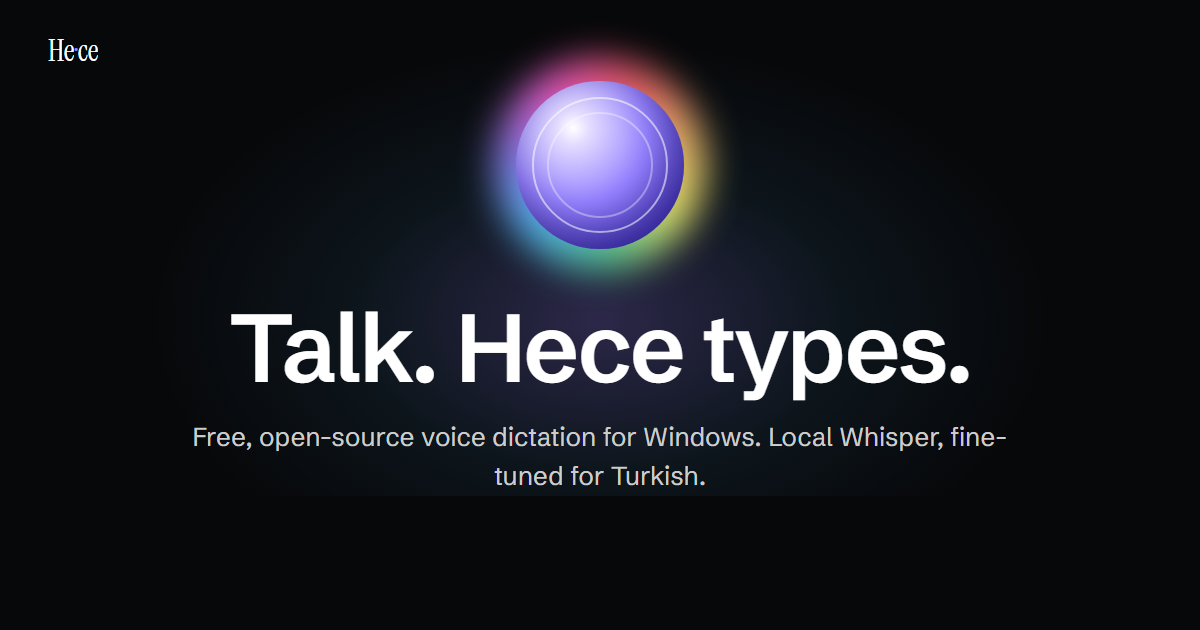
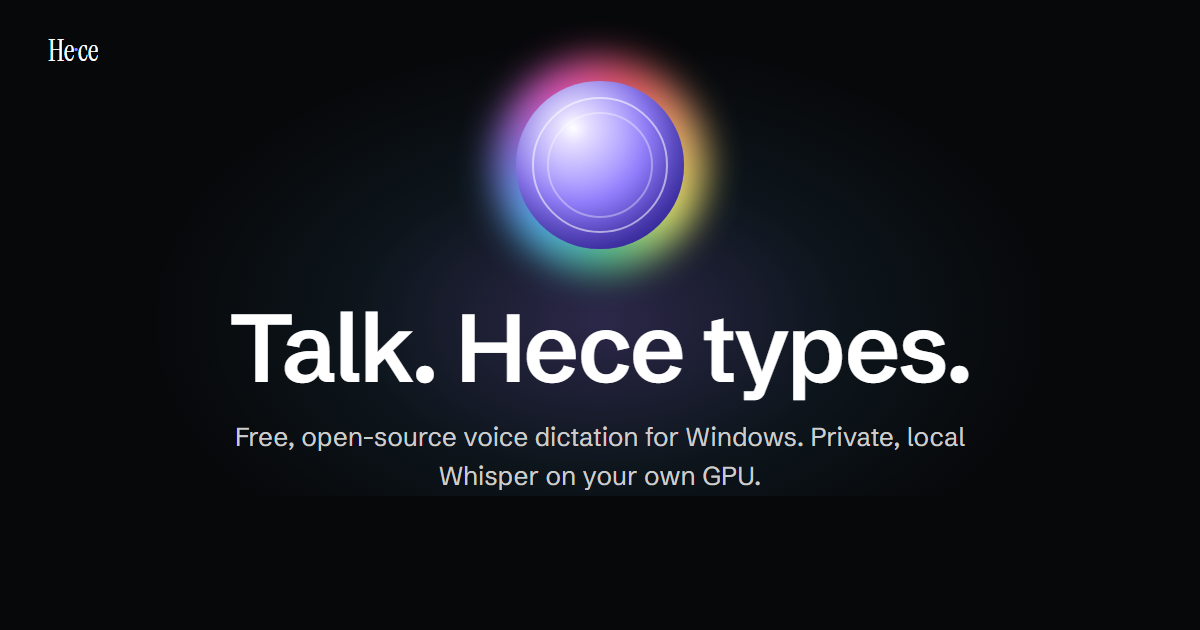
feat: global positioning for the website
Drop the Turkish page and Turkish-first copy. The site now leads with
multilingual local Whisper; fine-tuned single-language models are an
option, and the filter and guard coverage (English and Turkish today) is
stated openly. Positioning doc bumped to v2.

Refs #57

Changed region(s): [[0.1542, 0.6635, 0.8325, 0.7841]]

diff --git a/site/index.html b/site/index.html
@@ -4,23 +4,19 @@
 <meta charset="utf-8">
 <meta name="viewport" content="width=device-width, initial-scale=1">
 <title>Hece: free voice dictation for Windows, local and open source</title>
-<meta name="description" content="Hold a hotkey, speak, and Hece types your words into any app on Windows. Local Whisper fine-tuned for Turkish, no phantom text, your meaning kept. Free and open source.">
+<meta name="description" content="Hold a hotkey, speak, and Hece types your words into any app on Windows. Local Whisper on your GPU, many languages, no phantom text, your meaning kept. Free and open source.">
 <link rel="canonical" href="https://altintasutku.github.io/hece/">
-<link rel="alternate" hreflang="en" href="https://altintasutku.github.io/hece/">
-<link rel="alternate" hreflang="tr" href="https://altintasutku.github.io/hece/tr/">
-<link rel="alternate" hreflang="x-default" href="https://altintasutku.github.io/hece/">
 <meta name="theme-color" content="#07080a">
 <meta name="color-scheme" content="dark">
 <meta property="og:type" content="website">
 <meta property="og:site_name" content="Hece">
 <meta property="og:title" content="Hece: talk, and it types">
-<meta property="og:description" content="Free, open-source voice dictation for Windows. Local Whisper, fine-tuned for Turkish.">
+<meta property="og:description" content="Free, open-source voice dictation for Windows. Private, local Whisper on your own GPU.">
 <meta property="og:url" content="https://altintasutku.github.io/hece/">
 <meta property="og:image" content="https://altintasutku.github.io/hece/og.png">
 <meta property="og:image:width" content="1200">
 <meta property="og:image:height" content="630">
 <meta property="og:locale" content="en_US">
-<meta property="og:locale:alternate" content="tr_TR">
 <meta name="twitter:card" content="summary_large_image">
 <link rel="icon" href="favicon.svg" type="image/svg+xml">
 <link rel="apple-touch-icon" href="apple-touch-icon.png">
@@ -34,7 +30,7 @@
     {
       "@type": "SoftwareApplication",
       "name": "Hece",
-      "description": "Background voice dictation for Windows. Hold a hotkey, speak, and the text is pasted into the focused window. Local Whisper (fine-tuned for Turkish) or a cloud provider.",
+      "description": "Background voice dictation for Windows. Hold a hotkey, speak, and the text is pasted into the focused window. Local multilingual Whisper on the GPU or a cloud provider.",
       "applicationCategory": "UtilitiesApplication",
       "operatingSystem": "Windows",
       "url": "https://altintasutku.github.io/hece/",
@@ -42,7 +38,7 @@
       "license": "https://opensource.org/licenses/MIT",
       "isAccessibleForFree": true,
       "offers": { "@type": "Offer", "price": "0", "priceCurrency": "USD" },
-      "inLanguage": ["en", "tr"],
+      "inLanguage": "en",
       "author": { "@id": "https://altintasutku.github.io/hece/#author" }
     },
     {
@@ -70,7 +66,7 @@
       <a class="hide-sm" href="#how">How it works</a>
       <a class="hide-sm" href="#privacy">Privacy</a>
       <a class="hide-sm" href="#faq">FAQ</a>
-      <a href="tr/" hreflang="tr" lang="tr">Türkçe</a>
+      <a class="hide-sm" href="https://github.com/altintasutku/hece">GitHub</a>
       <a class="btn btn-primary btn-sm" href="https://github.com/altintasutku/hece/releases/latest">Download</a>
     </nav>
   </div>
@@ -91,7 +87,7 @@
 
       <div class="pillars">
         <div class="pillar"><h2><span class="dot" style="background:var(--green)"></span>Private by default</h2><p>Local Whisper runs on your machine. In local mode, audio never leaves your PC.</p></div>
-        <div class="pillar"><h2><span class="dot" style="background:var(--blue)"></span>Fluent in Turkish</h2><p>A Whisper model fine-tuned for Turkish, plus a vocabulary that spells your names and terms.</p></div>
+        <div class="pillar"><h2><span class="dot" style="background:var(--blue)"></span>Speaks your language</h2><p>Multilingual Whisper, plus a vocabulary that spells your names and terms the way you do.</p></div>
         <div class="pillar"><h2><span class="dot" style="background:var(--yellow)"></span>Keeps your meaning</h2><p>No phantom text from silence, and a cleanup step that is not allowed to drop a "not".</p></div>
       </div>
     </div>
@@ -113,8 +109,8 @@
           <div class="window">
             <div class="bar"><span># release-planning</span></div>
             <div class="msgs">
-              <div class="msg"><b>Deniz</b>Is the Kubernetes rollout still on for Thursday?</div>
-              <div class="msg"><b>Ece</b>Waiting on the staging numbers.</div>
+              <div class="msg"><b>Maya</b>Is the Kubernetes rollout still on for Thursday?</div>
+              <div class="msg"><b>Sam</b>Waiting on the staging numbers.</div>
             </div>
             <div class="compose"><mark>Yes, but not before the staging check passes. I'll post the numbers by noon.</mark><span class="caret"></span></div>
           </div>
@@ -142,7 +138,7 @@
           <div class="got"><small>Hece wrote</small>I can't make it on Friday.<br><span class="tag g">"can't" kept</span></div>
         </div>
       </div>
-      <p class="note">Illustrative examples. Optional LLM cleanup only removes fillers and fixes punctuation; if its output drops a negation or changes length sharply, Hece pastes the raw text instead. Low-confidence results are flagged.</p>
+      <p class="note">Illustrative examples. Optional LLM cleanup only removes fillers and fixes punctuation; if its output drops a negation or changes length sharply, Hece pastes the raw text instead. Low-confidence results are flagged. The phantom-text filter and the negation guard cover English and Turkish today; more languages are on the way.</p>
     </div>
   </section>
 
@@ -153,7 +149,7 @@
       <div class="modes">
         <div class="mode">
           <h3>Local</h3>
-          <p>Whisper large-v3, fine-tuned for Turkish, running on your NVIDIA GPU through CTranslate2.</p>
+          <p>Whisper large-v3 turbo running on your NVIDIA GPU through CTranslate2. Fine-tuned models for single languages are one click away.</p>
           <ul>
             <li>Audio never leaves your PC</li>
             <li>The model loads when you need it and is released when idle</li>
@@ -163,7 +159,7 @@
         </div>
         <div class="mode">
           <h3>Cloud</h3>
-          <p>No GPU, or another language? Bring your own key for a provider you trust.</p>
+          <p>No GPU? Bring your own key for a provider you trust.</p>
           <ul>
             <li>OpenAI-compatible endpoints, Deepgram, Groq</li>
             <li>Keys are stored in the Windows Credential Manager</li>
@@ -189,12 +185,12 @@
       <h2>Questions, answered.</h2>
       <div class="faq">
         <details><summary>Is Hece free?</summary><p>Yes. Hece is free and open source under the MIT license. There is no account and no subscription. In cloud mode you pay your provider directly, if they charge.</p></details>
-        <details><summary>Which languages does it support?</summary><p>The local model is Whisper large-v3 fine-tuned for Turkish, so Turkish is where it shines. For other languages, use a cloud provider, or point Hece at another CTranslate2 Whisper model.</p></details>
+        <details><summary>Which languages does it support?</summary><p>The default local model is multilingual Whisper large-v3 turbo, and Hece can download fine-tuned models for single languages (Turkish today). Accuracy varies by language, as it does for Whisper itself. Cloud providers and any CTranslate2 Whisper model work too.</p></details>
         <details><summary>Do I need a GPU?</summary><p>Local transcription needs an NVIDIA GPU with CUDA. Without one, pick a cloud provider (OpenAI-compatible, Deepgram or Groq) and add your key in the settings.</p></details>
         <details><summary>Does it work in every app?</summary><p>It works anywhere you can paste: chat apps, editors, browsers, terminals. Windows blocks pasting into apps running as administrator; the text then stays in Hece's history so you can paste it yourself.</p></details>
         <details><summary>Windows shows a SmartScreen warning. Is that safe?</summary><p>New, unsigned apps get this warning. Code signing is in progress. Until then you can check the source on GitHub and build it yourself.</p></details>
         <details><summary>What about macOS and Linux?</summary><p>Hece is Windows-first. Linux and macOS are planned; the core is written to be portable, and help is welcome on GitHub.</p></details>
-        <details><summary>How is Hece different from Windows voice typing (Win+H)?</summary><p>Hece can run fully offline on your GPU, uses a model tuned for Turkish, learns your vocabulary, and filters phantom text. Win+H has no personal vocabulary.</p></details>
+        <details><summary>How is Hece different from Windows voice typing (Win+H)?</summary><p>Hece can run fully offline on your GPU, learns your vocabulary, filters phantom text, and lets you pick the model or provider. Win+H has no personal vocabulary.</p></details>
       </div>
     </div>
   </section>
@@ -219,7 +215,6 @@
       <a href="https://github.com/altintasutku/hece">GitHub</a>
       <a href="https://github.com/altintasutku/hece/releases">Releases</a>
       <a href="https://github.com/altintasutku/hece/issues">Report an issue</a>
-      <a href="tr/" hreflang="tr" lang="tr">Türkçe</a>
     </nav>
   </div>
 </footer>

diff --git a/site/404.html b/site/404.html
@@ -14,8 +14,8 @@
   <div class="wrap">
     <div class="orb" aria-hidden="true"><div class="ring"></div><div class="core"></div><div class="wave"></div><div class="wave"></div></div>
     <h1 style="color:#fff;font-size:44px;font-weight:600">Nothing to type here.</h1>
-    <p class="req">This page does not exist. Bu sayfa yok.</p>
-    <div class="cta"><a class="btn btn-primary" href="/hece/">Go to Hece</a><a class="btn btn-ghost" href="/hece/tr/">Türkçe</a></div>
+    <p class="req">This page does not exist.</p>
+    <div class="cta"><a class="btn btn-primary" href="/hece/">Go to Hece</a><a class="btn btn-ghost" href="https://github.com/altintasutku/hece">GitHub</a></div>
   </div>
 </main>
 </body>

diff --git a/.agents/product-marketing.md b/.agents/product-marketing.md
@@ -1,16 +1,17 @@
 # Hece: product marketing context
 
-Document version: v1
-Last updated: 2026-11-02
+Document version: v2
+Last updated: 2026-11-03
 
-Every page, README section and launch post reads this file first. Facts here must match the code; when a feature
+Every page, README section and launch post reads this file first. Hece is positioned globally:
+English first, no single-language focus. Facts here must match the code; when a feature
 changes, update this file in the same PR.
 
 ## 1. Product overview
 
 - **One-liner:** Hold a hotkey, speak, and the text lands in the window you are typing in.
 - **What it does:** A background voice-dictation app for Windows. Speech is transcribed by a local Whisper model
-  (Turkish fine-tuned large-v3 on an NVIDIA GPU) or a cloud provider, cleaned by quality layers, and pasted into
+  (multilingual Whisper large-v3 turbo on an NVIDIA GPU, or a fine-tuned single-language model) or a cloud provider, cleaned by quality layers, and pasted into
   the focused window with one paste chord.
 - **Category (the shelf people look on):** dictation app / voice typing / speech-to-text for Windows.
 - **Type and business model:** free, open source (MIT). No account, no subscription, no telemetry.
@@ -19,38 +20,37 @@ changes, update this file in the same PR.
 
 - People who write a lot on Windows and think faster than they type: developers writing prompts and messages,
   writers, students, people with RSI.
-- Turkish speakers in particular: Windows voice typing (Win+H) is weak in Turkish and Voice Access does not support
-  it at all.
+- People who dictate in more than one language, or in a language the big apps treat as second class.
 - Privacy-minded users who do not want their voice sent to a server.
 
 **Jobs to be done**
 1. Write a message, prompt or note without typing it.
-2. Dictate Turkish with names and terms spelled right.
+2. Dictate in my language with names and terms spelled right.
 3. Keep using the apps I already use; the text should just appear there.
 
 ## 3. Problems and pain
 
-- Win+H misses Turkish words, needs a network, and has no personal vocabulary.
-- Paid dictation apps (Wispr Flow, Superwhisper) are subscriptions, send audio to the cloud, and are tuned for
-  English. Superwhisper and VoiceInk are macOS-first.
-- Plain Whisper invents text in silence ("Altyazı M.K.", "Thanks for watching") and LLM cleanup can flip a
-  sentence's meaning ("gelmeyeceğim" becoming "geleceğim").
+- Win+H has no personal vocabulary and no choice of model.
+- Paid dictation apps (Wispr Flow, Superwhisper) are subscriptions, and send audio to the cloud. Superwhisper and VoiceInk are macOS-first.
+- Plain Whisper invents text in silence ("Thanks for watching", "Subtitles by ...") and LLM cleanup can flip a
+  sentence's meaning ("I can't make it" becoming "I can make it").
 
 ## 4. Competition
 
 | Competitor | Type | Where it falls short for our audience |
 | --- | --- | --- |
-| Wispr Flow | direct, paid, cloud | subscription; audio goes to their servers; no Turkish page |
-| Superwhisper | direct, paid | macOS-first; English-first |
+| Wispr Flow | direct, paid, cloud | subscription; audio goes to their servers |
+| Superwhisper | direct, paid | macOS-first |
 | Handy | direct, open source | general Whisper models; no quality layers |
-| OpenWhispr | direct, open source | broader scope (meeting notes); not tuned for Turkish |
-| Windows voice typing (Win+H) | indirect, built in | weak Turkish accuracy; no vocabulary |
+| OpenWhispr | direct, open source | broader scope (meeting notes); no meaning guard |
+| Windows voice typing (Win+H) | indirect, built in | no vocabulary, no model choice |
 
 Rule: facts about competitors are dated ("as of Nov 2026") and we admit what they do well.
 
 ## 5. Differentiation
 
-1. **Turkish fine-tuned local model.** `whisper-large-v3-turkish-general`, pinned and checksummed, runs on your GPU.
+1. **Local models you choose.** Multilingual Whisper large-v3 turbo by default, fine-tuned single-language models
+   (Turkish today) one click away; pinned and checksummed, on your GPU.
 2. **Quality layers that do not change your meaning.** Personal vocabulary, a hallucination filter for silence,
    a low-confidence signal, and optional LLM cleanup with a guard that rejects edits which flip negations.
 3. **Local first, cloud if you want.** OpenAI-compatible endpoints, Deepgram, Groq; keys live in the Windows
@@ -71,15 +71,14 @@ Rule: facts about competitors are dated ("as of Nov 2026") and we admit what the
 
 ## 7. Switching forces
 
-- **Push:** typing fatigue, bad Turkish results from Win+H, subscription fatigue.
-- **Pull:** free, local, Turkish-tuned, open source.
+- **Push:** typing fatigue, poor results from Win+H, subscription fatigue, cloud privacy.
+- **Pull:** free, local, open source, meaning kept.
 - **Habit:** "I already type fast enough"; Win+H is already there.
 - **Anxiety:** model download size, GPU requirement, SmartScreen warning.
 
 ## 8. Customer language
 
-- Use: dictation, voice typing, speak, hotkey, local, private, free, open source, "sesle yazma", "sesli yazma",
-  "dikte".
+- Use: dictation, voice typing, speak, hotkey, local, private, free, open source.
 - Avoid: AI-powered, revolutionary, seamless, unlock, supercharge, productivity hacks.
 
 ## 9. Brand voice
@@ -107,8 +106,9 @@ The one conversion: **download Hece for Windows** (GitHub release). Secondary: s
 
 | Date | Learning | Evidence | Applies to | Status |
 | --- | --- | --- | --- | --- |
-| 2026-11-02 | No competitor has a Turkish page; Turkish queries return Win+H guides and download portals | search check in #57 | site, SEO | open |
+| 2026-11-02 | No competitor has a Turkish page; Turkish queries return Win+H guides and download portals | search check in #57 | localized pages later | parked: global focus first (2026-11-03) |
 
 ## Changelog
 
+- v2 (2026-11-03): global positioning; Turkish is one language among many, not the focus.
 - v1 (2026-11-02): first version, drafted from the README and competitor research in #57.
